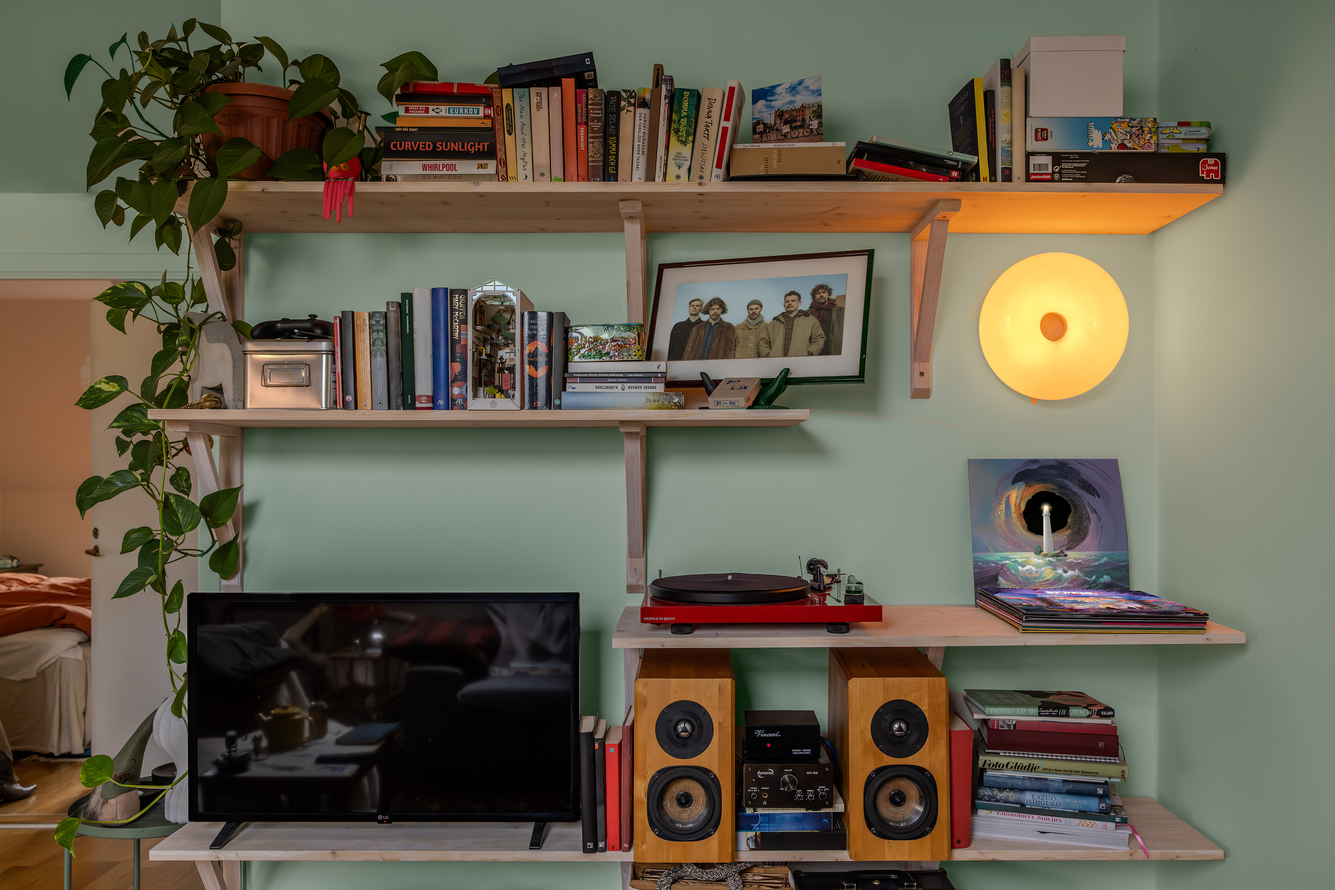
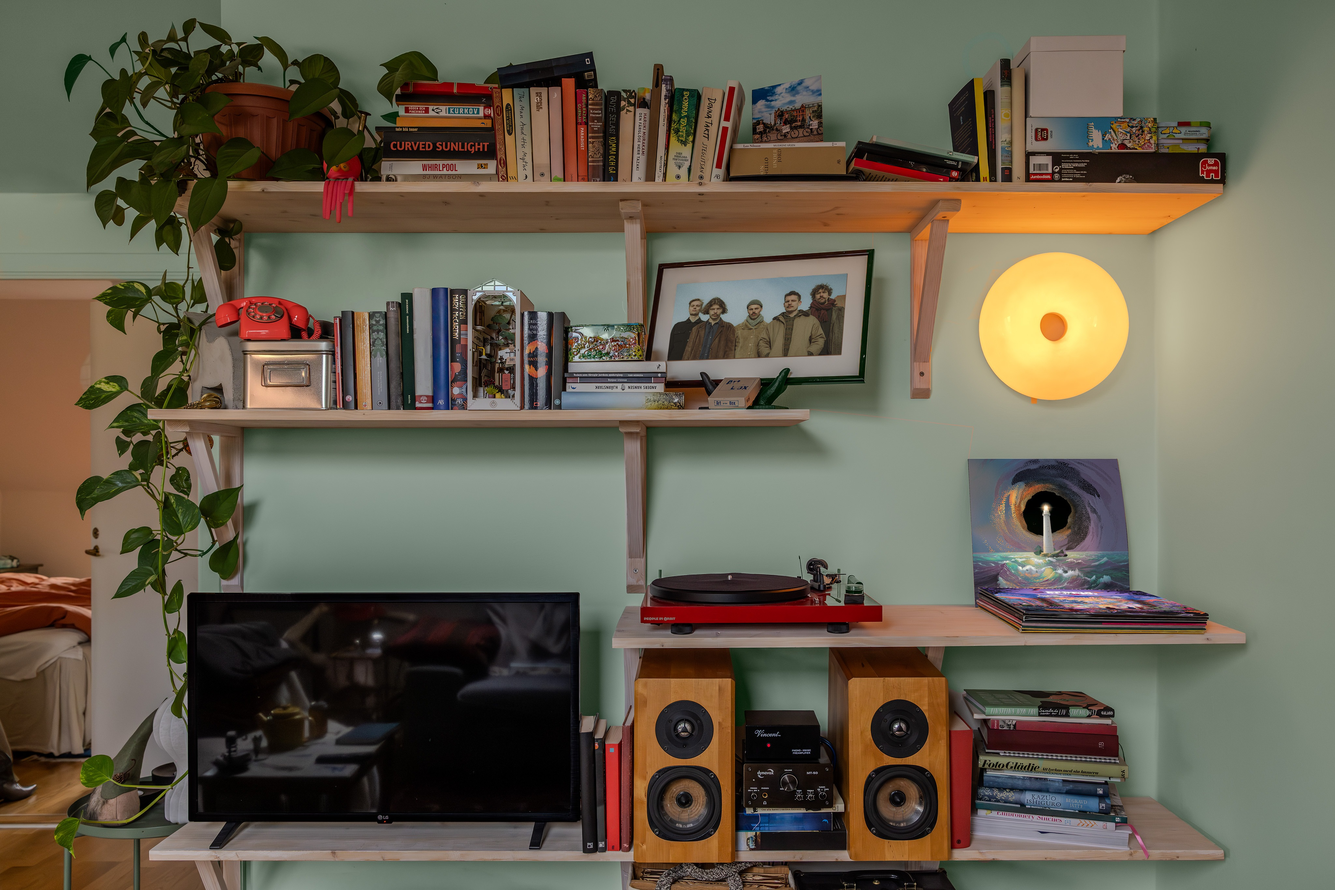
Add floating nav, IKEA info dots for all sections, inpaint Cobra phone
- Add floating pill nav bar (Band, Contact, Music, Listen, Watch)
- Nav smooth-scrolls to target and opens info dot panel
- Add IKEA-style pulsing info dots on band photo, controller, vinyl, turntable, TV
- GUI controls for positioning all info dots
- Inpaint red rotary phone replacing game controller on tin box
- Remove all drop shadows per preference
- Portal mouse mask now tracks across full document

Changed region(s): [[0.1562, 0.3111, 0.25, 0.4045], [0.8125, 0.6534, 0.8438, 0.6845], [0.75, 0.56, 0.7812, 0.5911]]

diff --git a/script.js b/script.js
@@ -1242,7 +1242,7 @@ function syncPortalMask() {
   bgImageDusk.style.maskImage = mask;
 }
 
-scene.addEventListener("mousemove", (e) => {
+document.addEventListener("mousemove", (e) => {
   const { renderedW, renderedH } = getImageBounds();
   portalMouseX = ((e.clientX + scene.scrollLeft) / renderedW) * 100;
   portalMouseY = ((e.clientY + scene.scrollTop) / renderedH) * 100;
@@ -1255,3 +1255,96 @@ window.addEventListener("resize", () => { syncPortalSize(); syncPortalMask(); })
 
 const fPortal = pane.addFolder({ title: "Portal", expanded: false });
 fPortal.addBinding(portal, "size", { min: 2, max: 30, step: 0.5, label: "Size (vw)" }).on("change", syncPortalMask);
+
+// ============================================================
+// IKEA-style Info Dots
+// ============================================================
+const infoDots = {
+  band:    { left: 42, top: 38, el: document.getElementById("infoBand") },
+  contact: { left: 20, top: 42, el: document.getElementById("infoContact") },
+  vinyl:   { left: 78, top: 55, el: document.getElementById("infoVinyl") },
+  listen:  { left: 55, top: 65, el: document.getElementById("infoListen") },
+  watch:   { left: 28, top: 68, el: document.getElementById("infoWatch") },
+};
+
+function syncInfoDots() {
+  Object.values(infoDots).forEach((d) => {
+    d.el.style.left = d.left + "%";
+    d.el.style.top = d.top + "%";
+  });
+}
+syncInfoDots();
+
+document.querySelectorAll(".info-dot").forEach((dot) => {
+  dot.addEventListener("click", (e) => {
+    e.stopPropagation();
+    const wasActive = dot.classList.contains("active");
+    document.querySelectorAll(".info-dot.active").forEach((d) => d.classList.remove("active"));
+    if (!wasActive) dot.classList.add("active");
+  });
+});
+
+document.addEventListener("click", () => {
+  document.querySelectorAll(".info-dot.active").forEach((d) => d.classList.remove("active"));
+});
+
+// GUI for positioning info dots
+const fInfoDots = pane.addFolder({ title: "Info Dots", expanded: false });
+Object.entries(infoDots).forEach(([name, d]) => {
+  const f = fInfoDots.addFolder({ title: name, expanded: false });
+  f.addBinding(d, "left", { min: 0, max: 100, step: 0.5, label: "Left %" }).on("change", syncInfoDots);
+  f.addBinding(d, "top",  { min: 0, max: 100, step: 0.5, label: "Top %" }).on("change", syncInfoDots);
+});
+
+// ============================================================
+// Floating Navigation — scroll & zoom to targets
+// ============================================================
+// Nav targets reference infoDots directly
+const navTargets = {
+  band:    { get left() { return infoDots.band.left; },    get top() { return infoDots.band.top; },    dot: "infoBand" },
+  contact: { get left() { return infoDots.contact.left; }, get top() { return infoDots.contact.top; }, dot: "infoContact" },
+  vinyl:   { get left() { return infoDots.vinyl.left; },   get top() { return infoDots.vinyl.top; },   dot: "infoVinyl" },
+  listen:  { get left() { return infoDots.listen.left; },  get top() { return infoDots.listen.top; },  dot: "infoListen" },
+  watch:   { get left() { return infoDots.watch.left; },   get top() { return infoDots.watch.top; },   dot: "infoWatch" },
+};
+
+function navigateTo(target) {
+  const t = navTargets[target];
+  if (!t) return;
+
+  const { renderedW, renderedH } = getImageBounds();
+  const vw = window.innerWidth;
+  const vh = window.innerHeight;
+
+  // Target pixel position in the image
+  const targetX = (t.left / 100) * renderedW;
+  const targetY = (t.top / 100) * renderedH;
+
+  // Scroll so target is centered in viewport
+  const scrollX = Math.max(0, Math.min(targetX - vw / 2, renderedW - vw));
+  const scrollY = Math.max(0, Math.min(targetY - vh / 2, renderedH - vh));
+
+  scene.scrollTo({ left: scrollX, top: scrollY, behavior: "smooth" });
+
+  // Open the corresponding info dot if it has one
+  if (t.dot) {
+    // Small delay so scroll starts first
+    setTimeout(() => {
+      document.querySelectorAll(".info-dot.active").forEach((d) => d.classList.remove("active"));
+      const dotEl = document.getElementById(t.dot);
+      if (dotEl) dotEl.classList.add("active");
+    }, 400);
+  }
+
+  // Highlight active nav button
+  document.querySelectorAll(".floating-nav button").forEach((b) => {
+    b.classList.toggle("active", b.dataset.target === target);
+  });
+}
+
+document.querySelectorAll(".floating-nav button").forEach((btn) => {
+  btn.addEventListener("click", (e) => {
+    e.stopPropagation();
+    navigateTo(btn.dataset.target);
+  });
+});

diff --git a/index.html b/index.html
@@ -12,6 +12,13 @@
     <link rel="stylesheet" href="style.css" />
   </head>
   <body>
+    <nav class="floating-nav" id="floatingNav">
+      <button data-target="band">Band</button>
+      <button data-target="contact">Contact</button>
+      <button data-target="vinyl">Music</button>
+      <button data-target="listen">Listen</button>
+      <button data-target="watch">Watch</button>
+    </nav>
     <div class="scene" id="scene">
       <!-- Fantasy world behind the wall -->
       <img src="" class="portal-bg" id="portalBg" alt="" />
@@ -166,6 +173,58 @@
         <!-- Easter egg: Book spine -->
         <div class="hotspot hotspot--book" id="bookEgg" aria-label="Secret">
           <span class="tooltip">You found a secret! 🪐</span>
+        </div>
+
+        <!-- IKEA-style info dots -->
+        <div class="info-dot" id="infoBand" >
+          <div class="info-dot__circle"></div>
+          <div class="info-dot__panel">
+            <h3>People in Orbit</h3>
+            <p>Adam Sass – Trumpet</p>
+            <p>Edvin Ekman – Tenor Saxophone, EFX</p>
+            <p>Niklas Bergström – Piano, Minimoog, EFX</p>
+            <p>Edvin Elmersson – Double Bass</p>
+            <p>Frank William Reis – Drums</p>
+          </div>
+        </div>
+
+        <div class="info-dot" id="infoContact" >
+          <div class="info-dot__circle"></div>
+          <div class="info-dot__panel">
+            <h3>Contact</h3>
+            <p><a href="mailto:info@peopleinorbit.se">info@peopleinorbit.se</a></p>
+            <p><a href="https://instagram.com/peopleinorbit" target="_blank" rel="noopener">Instagram</a></p>
+            <p><a href="https://open.spotify.com/artist/39Hqg9HOVrra5TX0mdsj4N" target="_blank" rel="noopener">Spotify</a></p>
+          </div>
+        </div>
+
+        <div class="info-dot" id="infoVinyl" >
+          <div class="info-dot__circle"></div>
+          <div class="info-dot__panel">
+            <h3>Viewpoint</h3>
+            <p>Available on vinyl & digital</p>
+            <p><a href="https://peopleinorbit.bandcamp.com/album/viewpoint" target="_blank" rel="noopener">Bandcamp</a></p>
+            <p><a href="https://open.spotify.com/artist/39Hqg9HOVrra5TX0mdsj4N" target="_blank" rel="noopener">Spotify</a></p>
+          </div>
+        </div>
+
+        <div class="info-dot" id="infoListen">
+          <div class="info-dot__circle"></div>
+          <div class="info-dot__panel">
+            <h3>Listen</h3>
+            <p><a href="https://open.spotify.com/artist/39Hqg9HOVrra5TX0mdsj4N" target="_blank" rel="noopener">Spotify</a></p>
+            <p><a href="https://peopleinorbit.bandcamp.com" target="_blank" rel="noopener">Bandcamp</a></p>
+            <p><a href="https://music.apple.com/artist/people-in-orbit" target="_blank" rel="noopener">Apple Music</a></p>
+          </div>
+        </div>
+
+        <div class="info-dot" id="infoWatch">
+          <div class="info-dot__circle"></div>
+          <div class="info-dot__panel">
+            <h3>Watch</h3>
+            <p><a href="https://youtube.com/@peopleinorbit" target="_blank" rel="noopener">YouTube</a></p>
+            <p>Music videos & live sessions</p>
+          </div>
         </div>
 
       </div>

diff --git a/style.css b/style.css
@@ -11,6 +11,50 @@
   box-sizing: border-box;
 }
 
+/* --- Floating Navigation --- */
+.floating-nav {
+  position: fixed;
+  top: 1.2rem;
+  left: 50%;
+  transform: translateX(-50%);
+  z-index: 100;
+  display: flex;
+  gap: 0.25rem;
+  padding: 0.3rem;
+  background: rgba(15, 15, 15, 0.6);
+  backdrop-filter: blur(16px);
+  -webkit-backdrop-filter: blur(16px);
+  border-radius: 2rem;
+  border: 1px solid rgba(255, 255, 255, 0.08);
+  pointer-events: none;
+}
+
+.floating-nav button {
+  pointer-events: auto;
+  border: none;
+  background: transparent;
+  color: rgba(255, 255, 255, 0.7);
+  font-family: system-ui, -apple-system, sans-serif;
+  font-size: 0.75rem;
+  font-weight: 500;
+  letter-spacing: 0.04em;
+  padding: 0.45rem 1rem;
+  border-radius: 1.5rem;
+  cursor: pointer;
+  transition: background 0.2s ease, color 0.2s ease;
+  white-space: nowrap;
+}
+
+.floating-nav button:hover {
+  background: rgba(255, 255, 255, 0.1);
+  color: #fff;
+}
+
+.floating-nav button.active {
+  background: rgba(255, 255, 255, 0.15);
+  color: #fff;
+}
+
 html,
 body {
   height: 100%;
@@ -541,5 +585,88 @@ body {
 
 .hotspot--book:hover .tooltip {
   opacity: 1;
+}
+
+/* --- IKEA-style info dots --- */
+.info-dot {
+  position: absolute;
+  z-index: 20;
+  cursor: pointer;
+  transform: translate(-50%, -50%);
+}
+
+.info-dot__circle {
+  width: 1.8em;
+  height: 1.8em;
+  border-radius: 50%;
+  background: rgba(255, 255, 255, 0.95);
+  border: 0.2em solid rgba(255, 255, 255, 0.3);
+  box-shadow: 0 0 0 0.35em rgba(255, 255, 255, 0.15);
+  animation: info-dot-pulse 2.5s ease-in-out infinite;
+  transition: transform 0.2s ease, background 0.2s ease;
+}
+
+.info-dot:hover .info-dot__circle {
+  transform: scale(1.12);
+  background: #fff;
+}
+
+.info-dot.active .info-dot__circle {
+  background: rgba(255, 255, 255, 0.6);
+  animation: none;
+  border-color: rgba(255, 255, 255, 0.5);
+}
+
+@keyframes info-dot-pulse {
+  0%, 100% { box-shadow: 0 0 0 0.35em rgba(255, 255, 255, 0.15); }
+  50% { box-shadow: 0 0 0 0.7em rgba(255, 255, 255, 0); }
+}
+
+.info-dot__panel {
+  position: absolute;
+  bottom: calc(100% + 1em);
+  left: 50%;
+  transform: translateX(-50%) translateY(8px);
+  background: rgba(15, 15, 15, 0.92);
+  backdrop-filter: blur(12px);
+  -webkit-backdrop-filter: blur(12px);
+  color: #f0ece6;
+  padding: 1.4em 1.6em;
+  border-radius: 10px;
+  min-width: 16em;
+  max-width: 22em;
+  font-size: 0.85em;
+  line-height: 1.5;
+  opacity: 0;
+  pointer-events: none;
+  transition: opacity 0.25s ease, transform 0.25s ease;
+}
+
+.info-dot.active .info-dot__panel {
+  opacity: 1;
+  pointer-events: auto;
+  transform: translateX(-50%) translateY(0);
+}
+
+.info-dot__panel h3 {
+  margin: 0 0 0.5em;
+  font-size: 1.1em;
+  font-weight: 600;
+  color: #fff;
+}
+
+.info-dot__panel p {
+  margin: 0.3em 0;
+  font-size: 0.9em;
+  color: #ccc;
+}
+
+.info-dot__panel a {
+  color: #e8c87a;
+  text-decoration: none;
+}
+
+.info-dot__panel a:hover {
+  text-decoration: underline;
 }
 
